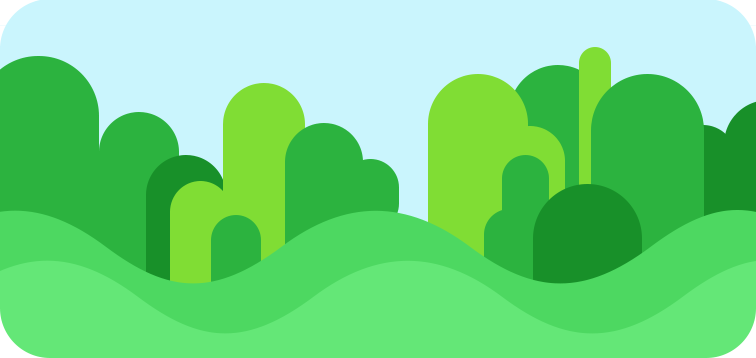
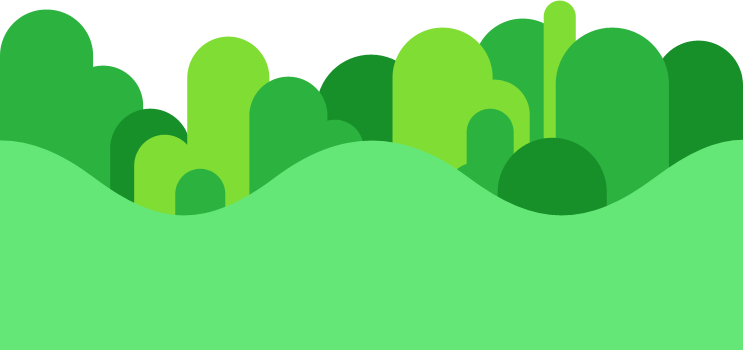
Immersive site redesign
Background for the mascots now encompass the whole page for more
immersiveness. The image is repeated horizontally and the background color
blends for a more seamless effect.

diff --git a/war/css/main.css b/war/css/main.css
@@ -3,25 +3,36 @@ html,body {
 	/* The html and body elements cannot have any padding or margin. */
 
 	font-family: 'Open Sans', sans-serif;
-	background-color: #FFFFFF;
+	background-color: #64e777;
+}
+
+.container {
+	width: 100%;
+	max-width: 100%;
+}
+
+.row {
+	max-width: 1200px;
+	margin-left: auto;
+	margin-right: auto;
 }
 
 /* loading screen */
 
 #loading {
 	text-align: center;
-	margin-top: 50px;
+	padding-top: 50px;
 	display: none;
 }
 
 @keyframes floating {
-	from {margin-top: 50px;}
-	to {margin-top: 60px;}
+	from {padding-top: 50px;}
+	to {padding-top: 60px;}
 }
 
 @-webkit-keyframes floating {
-	from {margin-top: 50px;}
-	to {margin-top: 60px;}
+	from {padding-top: 50px;}
+	to {padding-top: 60px;}
 }
 
 #loading img {
@@ -43,14 +54,14 @@ html,body {
 /* Set the fixed height of the footer here */
 #footer {
 	height: 50px;
-	background-color: #f5f5f5;
 	text-align: center;
 	line-height: 50px;
+	color: white;
 }
 
 .social {
 	position: absolute;
-	top: 30px;
+	top: 320px;
 	left: 20px;
 }
 
@@ -80,7 +91,11 @@ html,body {
 
 #demo-video {
 	text-align: center;
-	margin-top: 10px;
+	margin-top: 50px;
+}
+
+#demo-video a {
+	color: white;
 }
 
 /* MASCOT */
@@ -93,14 +108,28 @@ html,body {
 	cursor: pointer;
 }
 
-#mascot-container {
-	margin-top: 30px;
-	margin-bottom: 30px;
-	padding-top: 10px;
-	padding-bottom: 10px;
+#mascot-container,
+#loading,
+#landing-picture {
+	width: 100%;
+	max-width: 100%;
 	background-image: url('../img/mascot_background.png');
-	background-repeat: no-repeat;
-	background-position: center;
+	background-repeat: repeat-x;
+	background-position: center bottom;
+	background-color: #caf5fd;
+}
+
+#nav {
+	background-color:#caf5fd;
+	padding-bottom: 30px;
+}
+
+.main-picture,
+.main-search,
+.main-scramble {
+	background-image: url('../img/mascot_background_cloud.png');
+	background-repeat: repeat;
+	background-color: #caf5fd;
 }
 
 .mascot-img-container {
@@ -120,8 +149,9 @@ html,body {
 
 /* INDEX.HTML */
 
-#logo img {
+#logo {
 	margin-top: 20px;
+	cursor: pointer;
 }
 
 #nav-profile {
@@ -171,23 +201,25 @@ html,body {
 
 /* LANDING.HTML */
 
-.main-landing #main-picture {
-	margin-top: 30px;
+#main-picture {
+	margin-top: 50px;
 	text-align: center;
 }
 
-.main-landing #main-picture img {
+#main-picture img {
 	pointer-events: none
 }
 
 /* HOMEPAGE.HTML */
 .main-homepage #game-chooser {
+	padding-top: 30px;
 	display: block;
 	text-align: center;
 }
 
-.main-homepage .game-icon {
-	cursor: pointer;
+.main-homepage .game-icon:hover {
+	cursor: pointer;	
+	opacity: 0.7;
 }
 
 .main-homepage .game-caption {
@@ -196,19 +228,7 @@ html,body {
 	font-weight: bold;
 	margin-top: 10px;
 	margin-bottom: 30px;
-}
-
-.main-homepage #game-caption-picture {
-	color: #66baf5;
-}
-
-.main-homepage #game-caption-search {
-	color: #ffcc00;
-}
-
-
-.main-homepage #game-caption-scramble {
-	color: #29cb53;
+	color: white;
 }
 
 
@@ -220,6 +240,7 @@ html,body {
 
 .main-picture .picture-wrapper {
 	background-size: 150px;
+	background-color: white;
 
 	width: 150px;
 	height: 150px;
@@ -265,6 +286,8 @@ html,body {
 /* SEARCH_GAME.HTML */
 
 .main-search table {
+	background-color: #EEEEEE;
+	
 	margin-top: 30px;
 	
 	webkit-touch-callout: none;

diff --git a/war/js/homepage.js b/war/js/homepage.js
@@ -1,14 +1,8 @@
 $(function() {
 	swapMascot(gender, MASCOT_REGULAR);
 	$("#mascot-bubble").text($("#msg-default").text());
-	$(".game-icon").hover(gameIconHoverIn, gameIconHoverOut);
 
 	$(".game-icon").click(gameIconClick);
-
-	preloadImages([
-	               "img/picture_game_icon_hover.png",
-	               "img/search_game_icon_hover.png",
-	               "img/scramble_game_icon_hover.png"]);
 });
 
 function gameIconClick(e) {
@@ -28,30 +22,4 @@ function gameIconClick(e) {
 	} catch (err) {
 	}
 
-}
-
-function gameIconHoverIn(e) {
-	if (e.target.id == "game-icon-picture") {
-		$("#mascot-bubble").text($("#msg-picture").text());
-		$("#game-icon-picture").attr("src", "img/picture_game_icon_hover.png");
-	} else if (e.target.id == "game-icon-search") {
-		$("#mascot-bubble").text($("#msg-search").text());
-		$("#game-icon-search").attr("src", "img/search_game_icon_hover.png");
-	} else if (e.target.id == "game-icon-scramble") {
-		$("#mascot-bubble").text($("#msg-scramble").text());
-		$("#game-icon-scramble")
-				.attr("src", "img/scramble_game_icon_hover.png");
-	}
-}
-
-function gameIconHoverOut(e) {
-	$("#mascot-bubble").text($("#msg-default").text());
-
-	if (e.target.id == "game-icon-picture") {
-		$("#game-icon-picture").attr("src", "img/picture_game_icon.png");
-	} else if (e.target.id == "game-icon-search") {
-		$("#game-icon-search").attr("src", "img/search_game_icon.png");
-	} else if (e.target.id == "game-icon-scramble") {
-		$("#game-icon-scramble").attr("src", "img/scramble_game_icon.png");
-	}
 }

diff --git a/war/picture_game.html b/war/picture_game.html
@@ -39,17 +39,19 @@
 		</div>
 	</div>
 	
-	<div id="mascot-container" class="row">
-		<div class="col-md-6 mascot-img-container">
-			<img id="mascot-img">
-		</div>
-		<div class="col-md-4">
-			<div id="mascot-bubble">
-				
-			</div>
+</div>
+	
+<div id="mascot-container" class="row">
+	<div class="col-md-6 mascot-img-container">
+		<img id="mascot-img">
+	</div>
+	<div class="col-md-3">
+		<div id="mascot-bubble">
+			
 		</div>
 	</div>
 </div>
+
 
 <span id="msg-default" class="hidden">
 	Drag the photos to swap them around to their correct names. If you're satisfied with the positioning, click me to have your answer validated.

diff --git a/war/homepage.html b/war/homepage.html
@@ -1,15 +1,17 @@
-<div class="container main-homepage">
 
-	<div id="mascot-container" class="row">
-		<div class="col-md-6 mascot-img-container">
-			<img id="mascot-img">
-		</div>
-		<div class="col-md-4">
-			<div id="mascot-bubble">
-				
-			</div>
+
+<div id="mascot-container" class="row">
+	<div class="col-md-6 mascot-img-container">
+		<img id="mascot-img">
+	</div>
+	<div class="col-md-3">
+		<div id="mascot-bubble">
+			
 		</div>
 	</div>
+</div>
+	
+<div class="container main-homepage">
 	
 	<div id="game-chooser" class="row">
 		<div class="col-md-2 col-md-offset-3">

diff --git a/war/search_game.html b/war/search_game.html
@@ -23,17 +23,18 @@
 		</div>
 	</div>
 	
-	<div id="mascot-container" class="row">
+</div>
+
+<div id="mascot-container" class="row">
 		<div class="col-md-6 mascot-img-container">
 			<img id="mascot-img">
 		</div>
-		<div class="col-md-4">
+		<div class="col-md-3">
 			<div id="mascot-bubble">
 				
 			</div>
 		</div>
 	</div>
-</div>
 
 <div id="msg-default" class="hidden">
 	Find 10 people in this word search puzzle, go! When you've found someone, simply click the first and last letter of their name to highlight it.

diff --git a/war/scramble_game.html b/war/scramble_game.html
@@ -20,17 +20,18 @@
 		</div>
 	</div>
 	
-	<div id="mascot-container" class="row">
+</div>
+
+<div id="mascot-container" class="row">
 		<div class="col-md-6 mascot-img-container">
 			<img id="mascot-img">
 		</div>
-		<div class="col-md-4">
+		<div class="col-md-3">
 			<div id="mascot-bubble">
 
 			</div>
 		</div>
 	</div>
-</div>
 
 <span id="msg-default" class="hidden">
 	A random person from your circles has received a name scrambling. Can you figure out who? Rearrange the letters to their correct positions!

diff --git a/war/index.html b/war/index.html
@@ -30,12 +30,12 @@
 </head>
 <body>
 <div id="wrap">
-	<div class="container">
+	<div id="nav" class="container">
 		<div class="row">
-			<div id="logo" class="col-md-7 col-md-offset-1">
-				<a href="http://gcdc2013-mishmash.appspot.com/"><img src="img/logo.png"></a>
+			<div class="col-md-6 col-md-offset-1">
+				<img id="logo" src="img/logo.png">
 			</div>
-			<div class="col-md-4">
+			<div class="col-md-5">
 				<div id="nav-profile">
 					<div id="welcome-message"></div>
 					<img id="nav-profile-photo">

diff --git a/war/landing.html b/war/landing.html
@@ -1,10 +1,11 @@
-<div class="container main-landing">
-
-	<div class="row">
-		<div id="main-picture" class="col-md-12">
-			<img src="img/landing.png">
-		</div>
+<div id="landing-picture" class="row">
+	<div id="main-picture" class="col-md-12">
+		<img src="img/mascot_boy.png">
+		<img src="img/mascot_girl.png">
 	</div>
+</div>
+
+<div class="container main-landing">
 	<div class="row">
 		<div id="demo-video">
 			<a href="http://youtu.be/2LGPJKzrLgk">Check out the demo video!</a>

diff --git a/war/js/index.js b/war/js/index.js
@@ -1,9 +1,14 @@
-//$.ajaxSetup({ cache: false });
+$.ajaxSetup({ cache: false });
 
 $(function() {
 	$("#wrap-inner").load("landing.html");
+	$("#logo").click(logoClick);
 	$("#btn-sign-out").click(btnSignOutClick);
 });
+
+function logoClick(e) {
+	document.location.href="/";
+}
 
 var justSignedOut = false;
 
